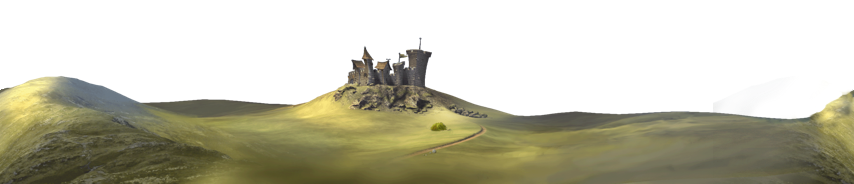
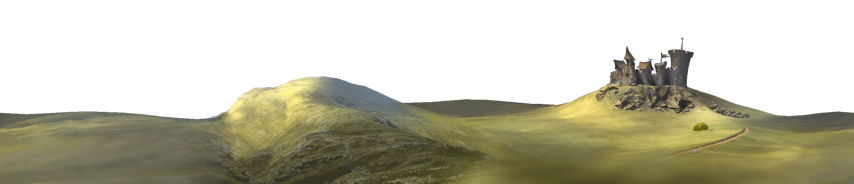
polish on art assets and add water.

diff --git a/src/stages/final.rb b/src/stages/final.rb
@@ -16,16 +16,19 @@ define_stage :final do
       width:viewport.width, height:viewport.height,
       actor_name: :sky, x:0, y:0, layer:1
     )
-    sky.rate = 0.0025
+    sky.rate = 0.0050
     sky.start tween_manager
 
+    # scopes
     ground = nil
     mountains = nil
+    water = nil
 
     director.when :update do |time|
       sky.check_for_respawn(tween_manager)
       ground.check_for_respawn(tween_manager) if ground
       mountains.check_for_respawn(tween_manager) if mountains
+      water.check_for_respawn(tween_manager) if water
     end
 
     input_manager.reg :down, K_SPACE do
@@ -35,17 +38,24 @@ define_stage :final do
       when 1
         mountains = ParallaxSystem.new(stage:self,
           width:viewport.width, height:viewport.height,
-          actor_name: :mountain, x:0, y:320, layer:2
+          actor_name: :mountain, x:0, y:220, layer:2
         )
-        mountains.rate = 0.007
+        mountains.rate = 0.0100
         mountains.start tween_manager
       when 2
         ground = ParallaxSystem.new(stage:self,
           width:viewport.width, height:viewport.height,
-          actor_name: :ground, x:0, y:395, layer:5
+          actor_name: :ground, x:0, y:295, layer:5
         )
-        ground.rate = 0.02
+        ground.rate = 0.0150
         ground.start tween_manager
+      when 3
+        water = ParallaxSystem.new(stage:self,
+          width:viewport.width, height:viewport.height,
+          actor_name: :water, x:0, y:620, layer:6
+        )
+        water.rate = 0.0280
+        water.start tween_manager
       else
         fire :next_stage
       end

diff --git a/src/actors/water.rb b/src/actors/water.rb
@@ -1,0 +1,3 @@
+define_actor :water do
+  has_behavior :positioned, :layered, :graphical
+end
